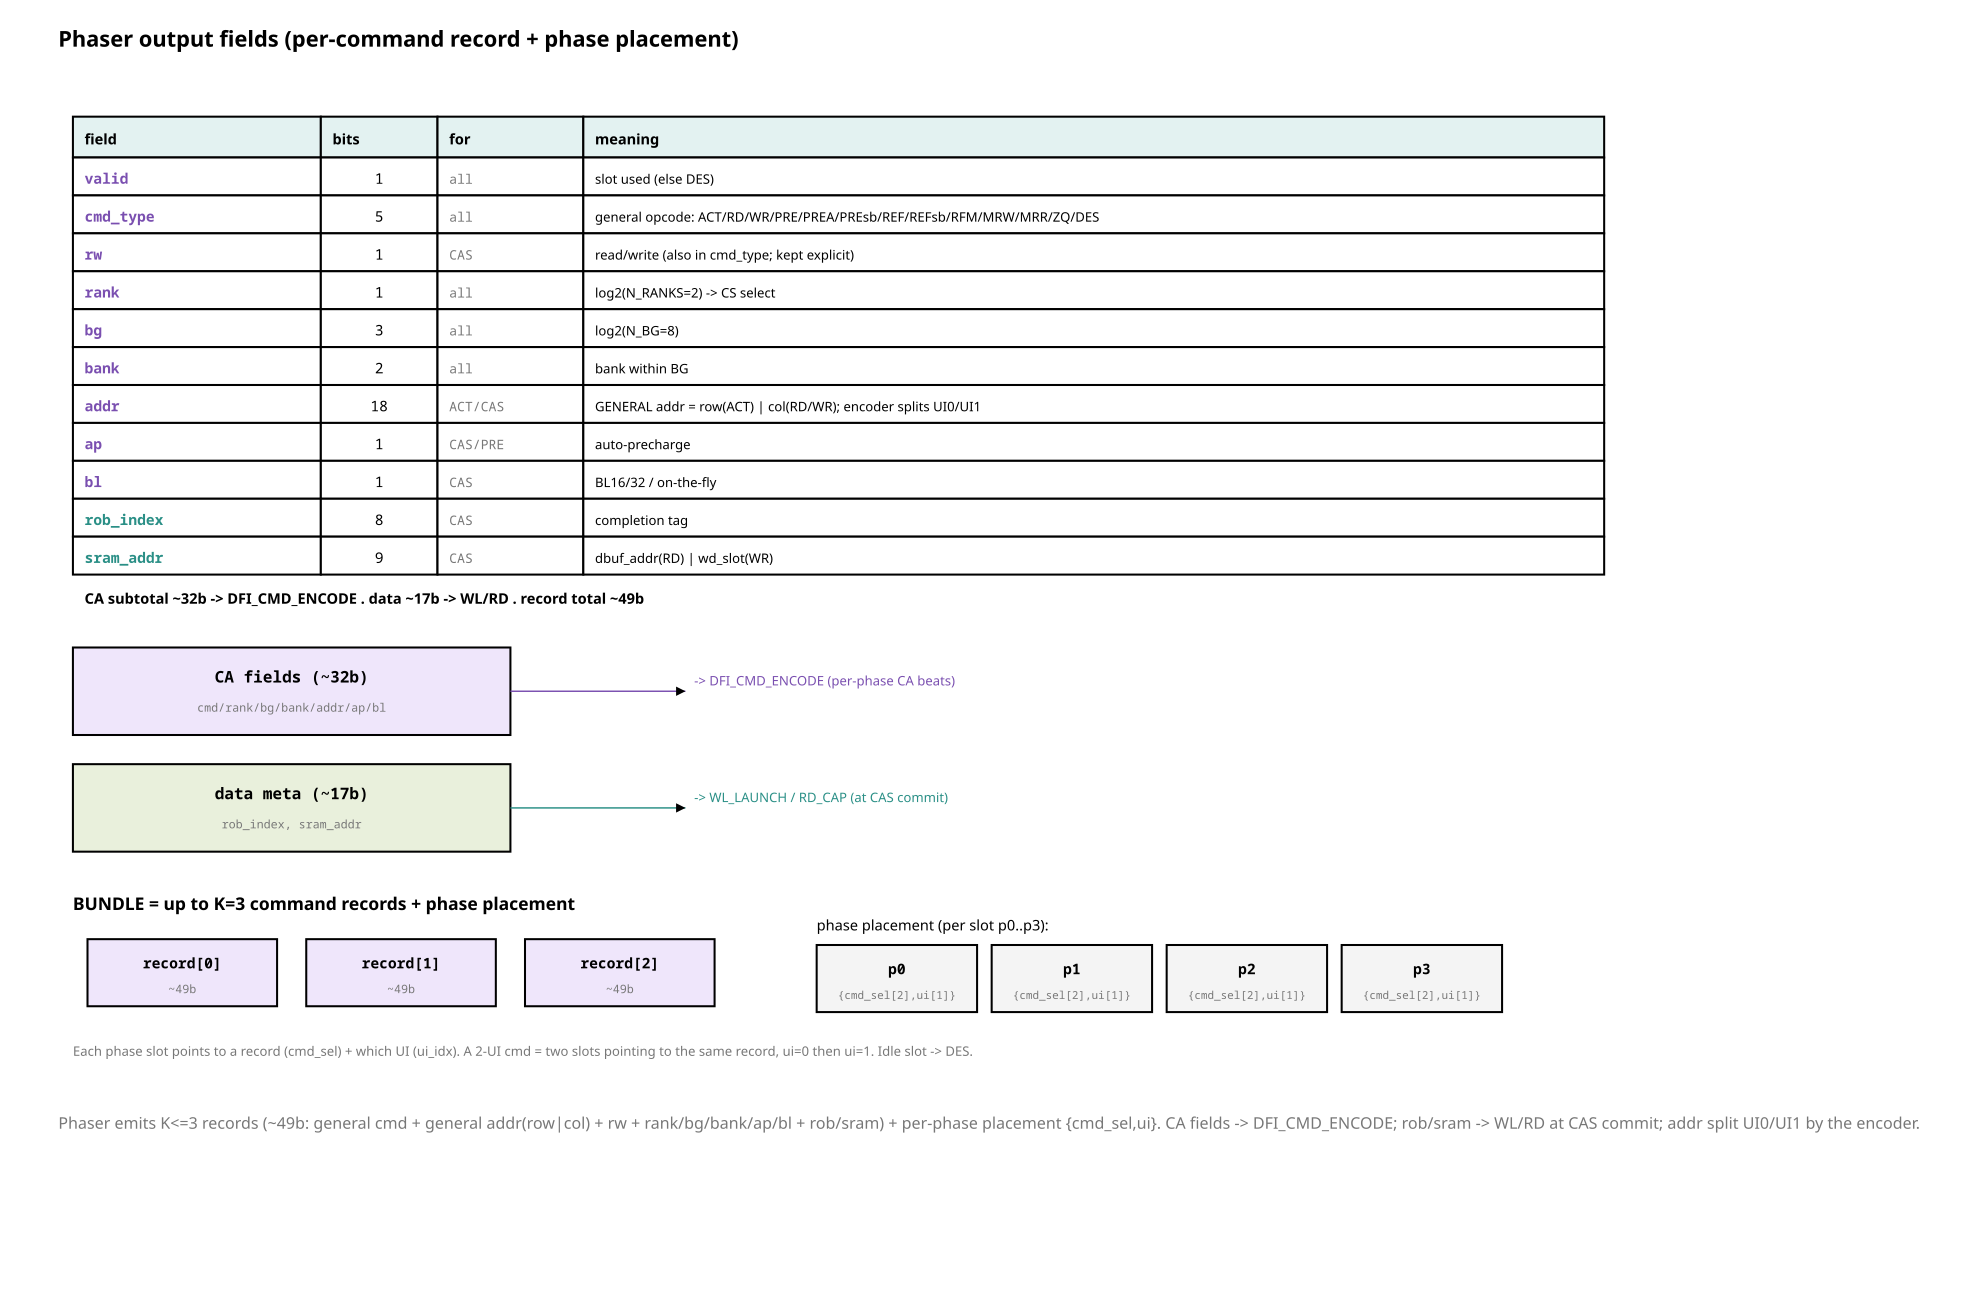
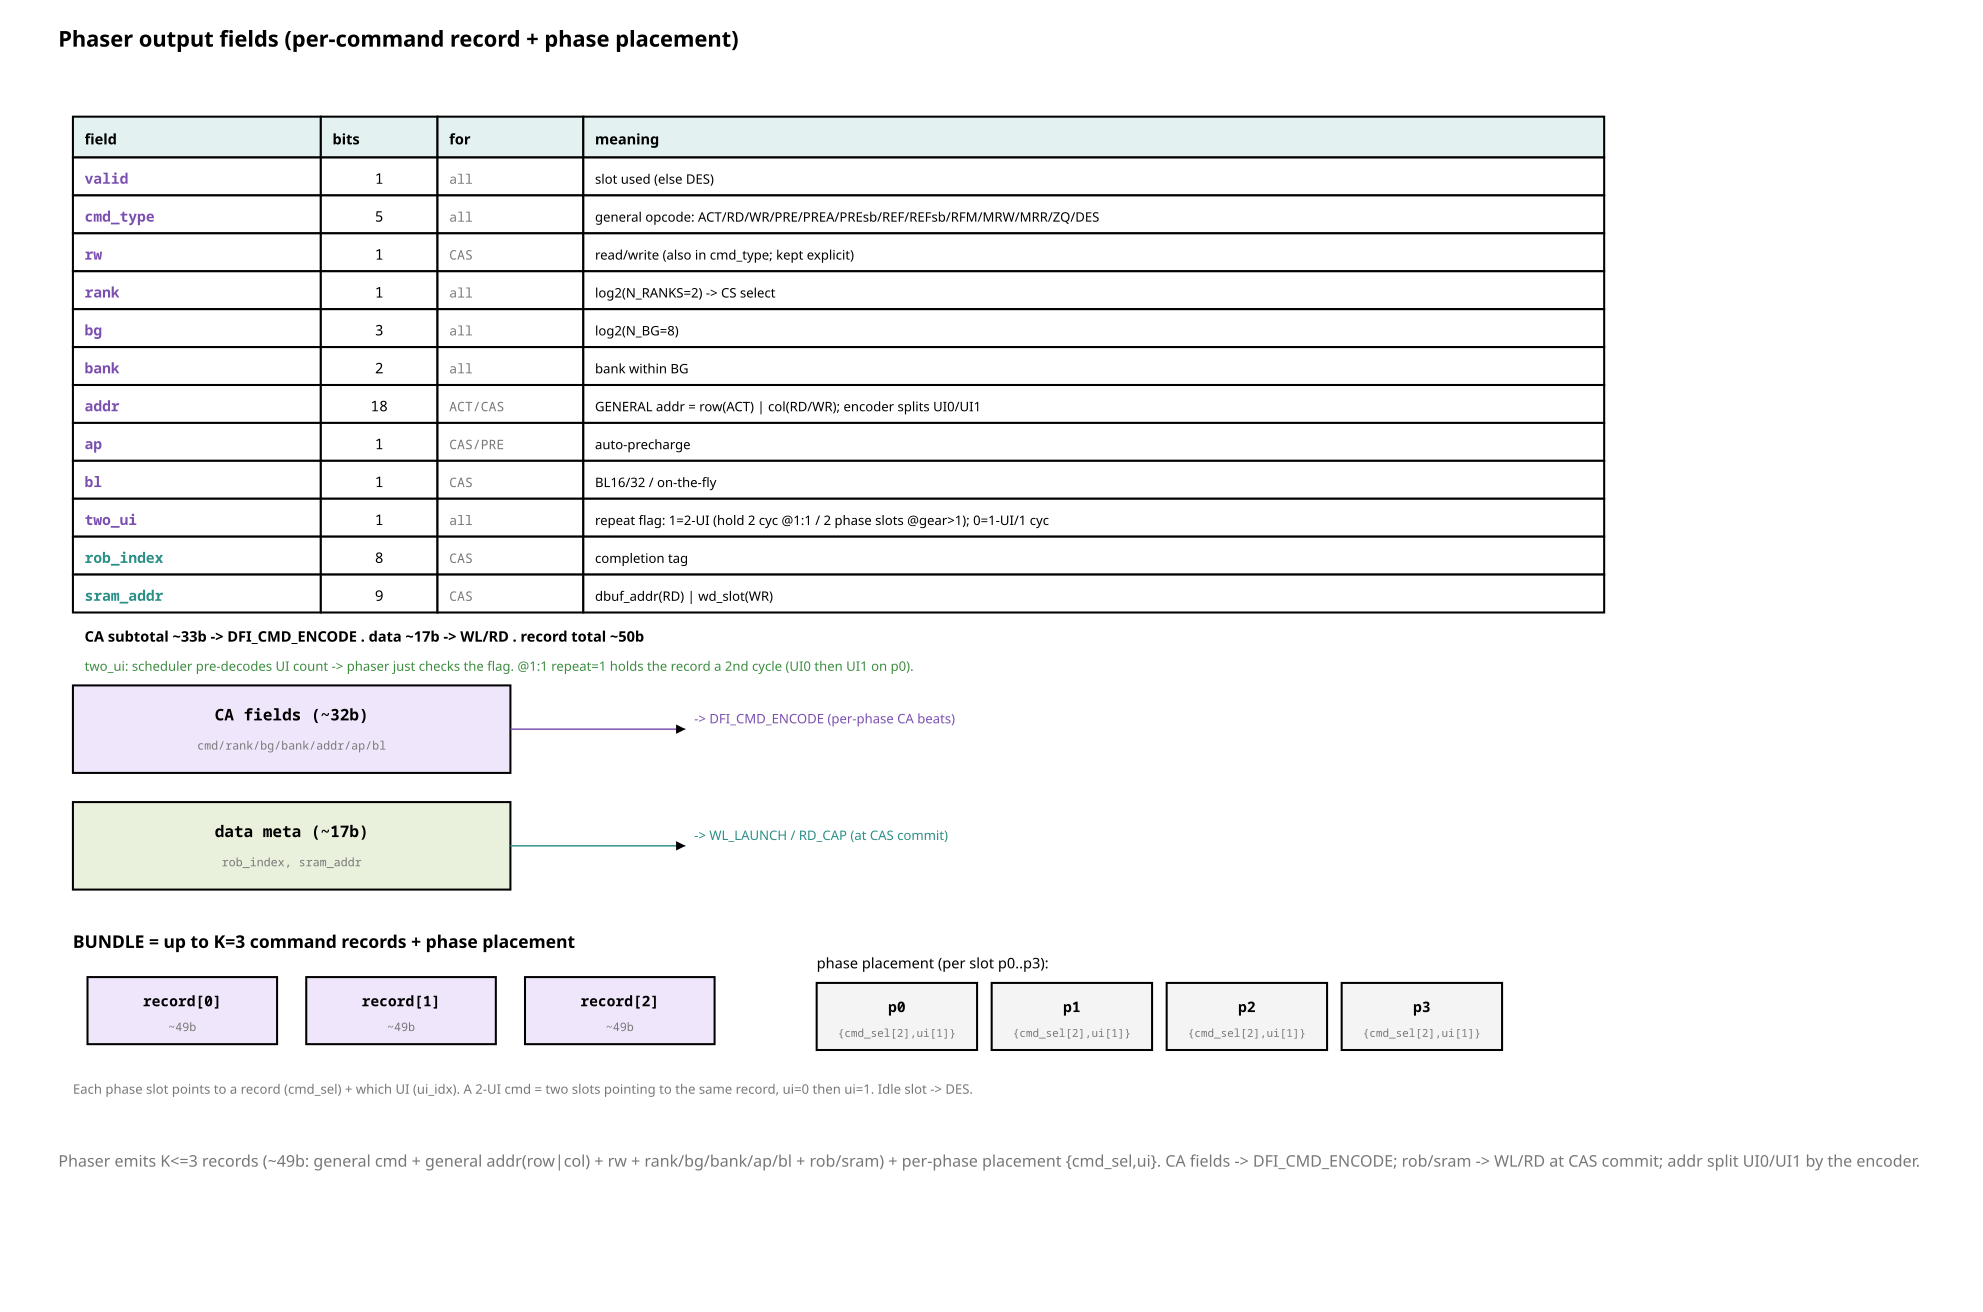
docs(dfi): add two_ui/repeat flag to phaser record (fig_71)
two_ui(1b): scheduler pre-decodes UI count. 1=2-UI cmd (hold 2 cyc @1:1 / 2 phase
slots @gear>1), 0=1-UI/1 cyc. Phaser just checks the flag; @1:1 repeat=1 holds the
record a 2nd cycle (UI0 then UI1 on p0). Record now ~50b.

Claude-Session: https://claude.ai/code/session_01KeZpnsTmiABbSM1StVyWVX

diff --git a/docs/sched_rebuild/fig/fig_71_phaser_fields.py b/docs/sched_rebuild/fig/fig_71_phaser_fields.py
@@ -21,6 +21,7 @@ rows = [
     ("addr", "18", "ACT/CAS", "GENERAL addr = row(ACT) | col(RD/WR); encoder splits UI0/UI1", CMD),
     ("ap", "1", "CAS/PRE", "auto-precharge", CMD),
     ("bl", "1", "CAS", "BL16/32 / on-the-fly", CMD),
+    ("two_ui", "1", "all", "repeat flag: 1=2-UI (hold 2 cyc @1:1 / 2 phase slots @gear>1); 0=1-UI/1 cyc", CMD),
     ("rob_index", "8", "CAS", "completion tag", DATA),
     ("sram_addr", "9", "CAS", "dbuf_addr(RD) | wd_slot(WR)", DATA),
 ]
@@ -42,8 +43,11 @@ for nm, b, fr, mn, col in rows:
     f.text(X[3] + 8, y + 18, mn, size=9, mono=False)
     y += 26
 # subtotal bar
-f.text(X[0] + 8, y + 20, "CA subtotal ~32b -> DFI_CMD_ENCODE   .   data ~17b -> WL/RD   .   "
-       "record total ~49b", size=10, mono=False, bold=True, fill=INK)
+f.text(X[0] + 8, y + 20, "CA subtotal ~33b -> DFI_CMD_ENCODE   .   data ~17b -> WL/RD   .   "
+       "record total ~50b", size=10, mono=False, bold=True, fill=INK)
+f.text(X[0] + 8, y + 40, "two_ui: scheduler pre-decodes UI count -> phaser just checks the flag. "
+       "@1:1 repeat=1 holds the record a 2nd cycle (UI0 then UI1 on p0).", size=9,
+       mono=False, fill=GREEN)
 
 # ---- split arrows ----
 sy = y + 50
